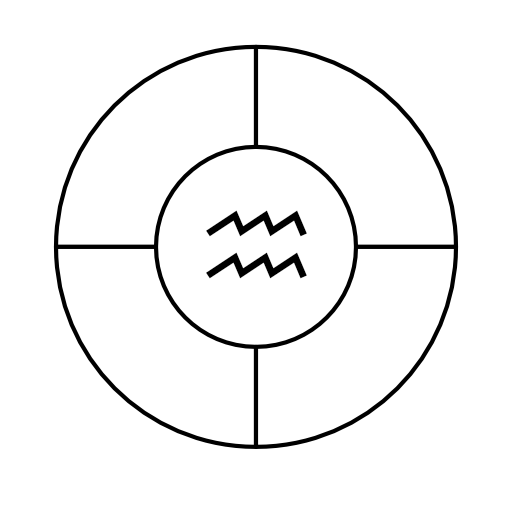
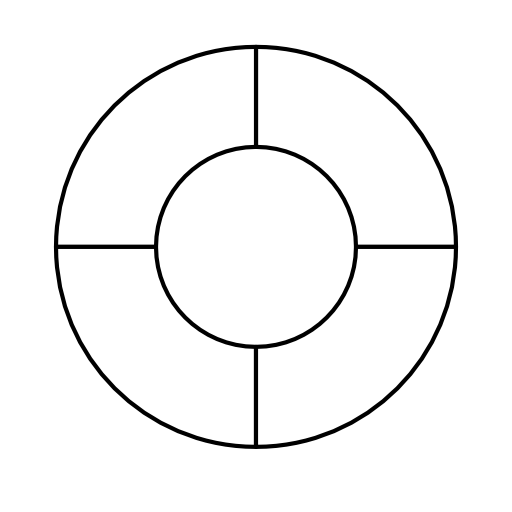
polish items

Changed region(s): [[0.4062, 0.4062, 0.5938, 0.4688], [0.4062, 0.5, 0.5938, 0.5625]]

diff --git a/src/js/api_kh.js b/src/js/api_kh.js
@@ -151,6 +151,7 @@ export class PrimeChip extends PIXI.Container {
 
       if (this.state.blank){
         color = 0xffffff
+        this.descriptor.alpha = 0
         this.graphics.lineStyle(ri/15,0x000000)
         this.graphics.beginFill(color)
       } 
@@ -183,6 +184,7 @@ export class PrimeChip extends PIXI.Container {
 
         if (this.state.blank){
           color = 0xffffff
+          this.descriptor.alpha = 0
           this.graphics.lineStyle(ri/15,0x000000)
           this.graphics.beginFill(color)
         } 
@@ -716,6 +718,11 @@ export class FractionStrip extends PIXI.Container {
     this.on("pointerup", this.pointerUp);
     this.on("pointerupoutside", this.pointerUp);
 
+    this.minX = null;
+    this.maxX = null;
+    this.minY = 0;
+    this.maxY = this.state.frame.height;
+
     this.addChild(this.stripGraphic)
 
   }
@@ -847,15 +854,6 @@ onAdjustPointerDown(){
 
   onPointerUp() {
     this.touching = false;
-    /*
-    if (this == this.parent.minDragger) {
-      this.x = this.parent.min - this.parent.x
-      this.parent.draw();
-    } else {
-      this.x = this.parent.max - this.parent.x
-      this.parent.draw();
-    }
-    */
     this.parent.onUpdate && this.parent.onUpdate();
   }
 
@@ -887,13 +885,14 @@ onAdjustPointerDown(){
       if (!this.lockY) {
         this.y = event.data.global.y + this.deltaTouch.y;
 
-        let yMaxOut = this.maxY && this.y > this.yMax;
-        let yMinOut = this.minY && this.y < this.yMin;
+        let yMaxOut = (this.maxY != null) && this.y > this.maxY;
+        let yMinOut = (this.minY != null) && this.y < this.minY;
 
+  
         if (yMaxOut) {
-          this.y = this.yMax;
+          this.y = this.maxY;
         } else if (yMinOut) {
-          this.y = this.yMin;
+          this.y = this.minY;
         }
       }
       this.updateLayoutParams();
@@ -2033,10 +2032,6 @@ export class HorizontalNumberLine extends PIXI.Container {
 
      this.setLayoutParams(this.min,this.max)
 
-     this.hitArea.width = this._width 
-     this.hitArea.height = this.height
-
-
      this.line.clear()
      this.line.lineStyle(this.lineThickness, 0x000000);
      this.line.lineTo(this._width, 0);
@@ -2054,6 +2049,10 @@ export class HorizontalNumberLine extends PIXI.Container {
 
 
      this.draw()
+
+     this.hitArea.width = this._width 
+     this.hitArea.height = this.height
+
   }
 
   // NLD_DRAW
@@ -3301,8 +3300,8 @@ export class MagnifyingPin extends PIXI.Container {
     this.lockY = false;
     this.minX = null;
     this.maxX = null;
-    this.minY = null;
-    this.maxY = null;
+    this.minY = numberline.y;
+    this.maxY = this.state.frame.height;
     this.on("pointerdown", this.pointerDown);
     this.on("pointermove", this.pointerMove);
     this.on("pointerup", this.pointerUp);
@@ -3336,13 +3335,13 @@ export class MagnifyingPin extends PIXI.Container {
       if (!this.lockY) {
         this.y = event.data.global.y + this.deltaTouch.y;
 
-        let yMaxOut = this.maxY && this.y > this.yMax;
-        let yMinOut = this.minY && this.y < this.yMin;
+        let yMaxOut = this.maxY && this.y > this.maxY;
+        let yMinOut = this.minY && this.y < this.minY;
 
         if (yMaxOut) {
-          this.y = this.yMax;
+          this.y = this.maxY;
         } else if (yMinOut) {
-          this.y = this.yMin;
+          this.y = this.minY;
         }
       }
       this.drawWhisker()
@@ -3362,6 +3361,8 @@ export class MagnifyingPin extends PIXI.Container {
     if (Math.abs(this.y - this.numberline.y) < 2*this.grabber.height) {
       this.numberline.zoomTo(this.value - this.numberline.majorStep,this.value+this.numberline.majorStep,1)
       TweenLite.to(this,{y: this.numberline.y + 3*this.grabber.height,onUpdate: onUpdate})
+    } else if (this.y < 0){
+      TweenLite.to(this,{})
     }
   }
 
@@ -3369,6 +3370,7 @@ export class MagnifyingPin extends PIXI.Container {
 
   synch(){
     this.x = this.numberline.getNumberLinePositionFromFloatValue(this.value)
+    this.minY = this.numberline.y
   }
 
   drawWhisker(){

diff --git a/src/js/primechips.js b/src/js/primechips.js
@@ -17,6 +17,7 @@ export const init = (app, setup) => {
     // Layout Params
   let VIEW_WIDTH = setup.width
   let VIEW_HEIGHT = setup.height
+  let VIEW_FRAME = {width: setup.width,height: setup.height}
   let BTN_DIM = Math.min(VIEW_WIDTH,VIEW_HEIGHT)/10
   let DELETE_ZONE = {x: 0,y:VIEW_HEIGHT,width:2*BTN_DIM,height: 2*BTN_DIM}
   let LEAVE_Y = -2*BTN_DIM
@@ -391,21 +392,19 @@ export const init = (app, setup) => {
     let strips = objects.filter(o=>o.TYPE == 's')
     let chips = objects.filter(o=>o.TYPE == 'c')
 
-    if (strips.length !=0 || chips.length > 1){
-
     let minXs = strips.map(s=>{
-        return s.minDragger.getGlobalPosition().x
-      })
-      let maxXs = strips.map(s=>{
-        return s.maxDragger.getGlobalPosition().x
-      })
+      return s.minDragger.getGlobalPosition().x
+    })
+    let maxXs = strips.map(s=>{
+      return s.maxDragger.getGlobalPosition().x
+    })
 
-    let chipVals = chips.map(c=>c.x)
+  let chipVals = chips.map(c=>c.x)
 
-    let xMax = Math.max(...maxXs,...chipVals)
-    let xMin = Math.min(...minXs,...chipVals)
+  let xMax = Math.max(...maxXs,...chipVals)
+  let xMin = Math.min(...minXs,...chipVals)
 
-
+    if (strips.length !=0 || chips.length > 1){
 
     xMin = xMin > 0 ? 0.8*xMin : 1.2*xMin
     let vMin = numberline.getNumberLineFloatValueFromPosition(xMin+0.1*xMin)
@@ -414,9 +413,16 @@ export const init = (app, setup) => {
     numberline.flexPoint = centerVal 
     magnifyingPin.value = centerVal
     numberline.zoomTo(vMin,vMax,2)
-    } 
-
-
+    } else if (chips.length == 1) {
+      const xMaxVal = numberline.getNumberLineFloatValueFromPosition(xMax)
+      if (xMax < 0){
+        numberline.zoomTo(xMaxVal,0.01*xMaxVal,2)
+      } else {
+        numberline.zoomTo(-0.01*xMaxVal,xMaxVal,2)
+      }
+    } else {
+      numberline.zoomTo(-10,100,2)
+    }
 
   }
 
@@ -430,6 +436,7 @@ export const init = (app, setup) => {
 
 
     objects.forEach(o=>{
+      o.maxY = VIEW_HEIGHT
       if (o.TYPE == "c"){
         o.redraw(newFrame)
         o.synch()
@@ -452,8 +459,12 @@ export const init = (app, setup) => {
 
     magnifyingPin.grabber.width = BTN_DIM
     magnifyingPin.grabber.height = BTN_DIM
+    magnifyingPin.x = numberline.getNumberLinePositionFromFloatValue(magnifyingPin.value)
+    magnifyingPin.minY = numberline.y 
+    magnifyingPin.maxY = VIEW_HEIGHT
     magnifyingPin.y = numberline.y + VIEW_HEIGHT/4
     magnifyingPin.drawWhisker()
+
 
     app.renderer.resize(newFrame.width,newFrame.height)
   }
@@ -479,8 +490,8 @@ export const init = (app, setup) => {
 
     VIEW_WIDTH = frame.width
     VIEW_HEIGHT = frame.height
+    VIEW_FRAME = frame
     BTN_DIM =  Math.min(VIEW_WIDTH,VIEW_HEIGHT)/15
-    DELETE_ZONE = {x: 0,y:0,width:2*BTN_DIM,height: 2*BTN_DIM}
     LEAVE_Y = -2*BTN_DIM
   }
 
@@ -649,6 +660,7 @@ export const init = (app, setup) => {
       height: BTN_DIM/1.5,
       width: BTN_DIM/1.5,
       texture: MOVER_DOT_TEXTURE,
+      frame: VIEW_FRAME
     }
 
     magnifyingPin = new MagnifyingPin(numberline,pinState)

diff --git a/src/Activities.js b/src/Activities.js
@@ -72,7 +72,7 @@ export const PRIME_LINE = {
   title: "Prime Line",
   previewImg: "PrimeLine.png",
   tool: "/primeline",
-  gameShow: 'https://app.knowledgehook.com/app/Activity/51cbf304-062c-eb11-974d-0050568c42b6',
+  gameShow: 'https://khlink.net/33dlSj0',
   coreSkillDescription:
     "Here is a lotere is a lot of text here is a lot of text. Here is a lot of text here is a lot of text here is a lot of text. Here is a lot of text here is a lot of text here is a lot of text. Here is a lot of text here is a lot of text here is a lot of text.",
 };

diff --git a/src/Manipulatives.js b/src/Manipulatives.js
@@ -16,7 +16,7 @@ export default class Interactives extends Component {
     return (
       <div className="clouds">
         <div className="container" style={{ paddingTop: 20 }}>
-        <a href = "https://www.knowledgehook.com/">
+        <a target = "_blank" href = "https://khlink.net/3nOmZ0f">
             <img className = "header" src={require("./assets/KnowledgehookLogo.png")} />
           </a>
           <div style={{ display: "flex", flexDirection: "column" }}>
